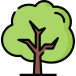
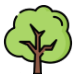
Andlrutt/tkw 67 tree table images (#29)
* Adds images to tree table

* new defaultTreeImage.png

* new new defaultTreeImage.png

* new new new defaultTreeImage.png

* new new new defaultTreeImage.png

Changed region(s): [[0.0, 0.0, 1.0, 1.0]]

diff --git a/src/components/SingleTree/SingleTree.module.scss b/src/components/SingleTree/SingleTree.module.scss
@@ -26,10 +26,17 @@
     margin: 0 10px 0 0;
     display: flex;
     justify-content: center;
-
     @include ab.respond-to('small') {
         margin-left: 10px;
     }
+}
+
+.treeImage {
+    border-radius: 50%;
+    border: 2px solid map-get(ab.$colors, "theme", "primary");
+    height: 70px;
+    width: 70px;
+    object-fit: cover;
 }
 
 .hiddenText {
@@ -38,11 +45,6 @@
     }
 }
 
-.placeholderImage {
-    min-width: 50px;
-    width: 50%;
-    height: auto;
-}
 
 .mobileInfo1 {
     // species

diff --git a/src/components/SingleTree/index.tsx b/src/components/SingleTree/index.tsx
@@ -28,7 +28,7 @@ const SingleTree: NextPage<Props> = ({ tree }) => {
     return (
     <div className={styles.container}>
         <div className={styles.imageContainer}>
-                <img className={styles.placeholderImage} src="/defaultTreeImage.png"/>
+                <img className={styles.treeImage} src={tree && tree.image ? tree.image.url : "/defaultTreeImage.png"}/>
         </div>
         <div className={styles.row}>  
             
